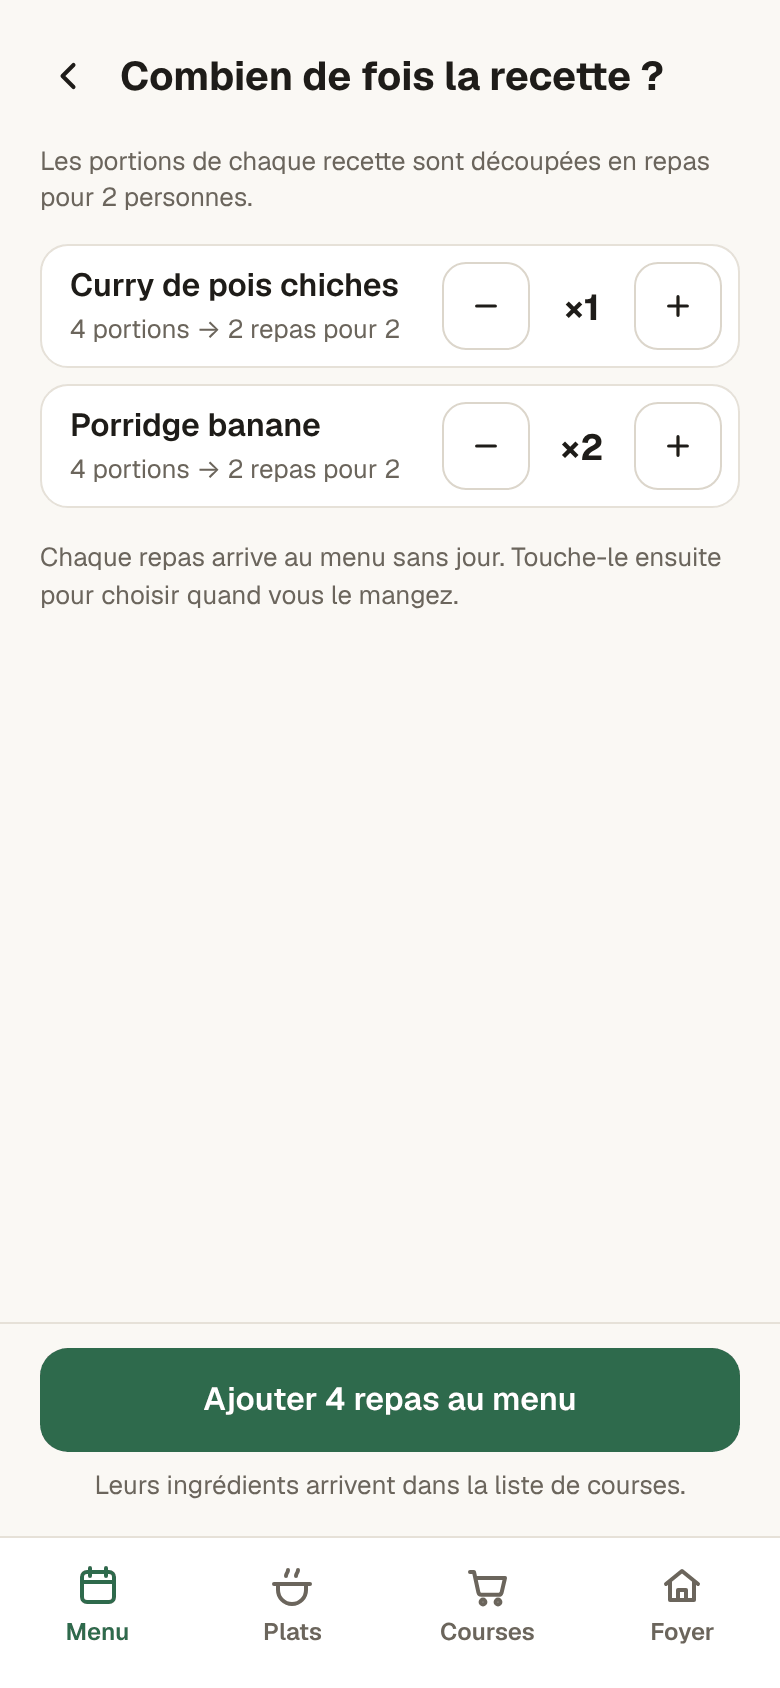
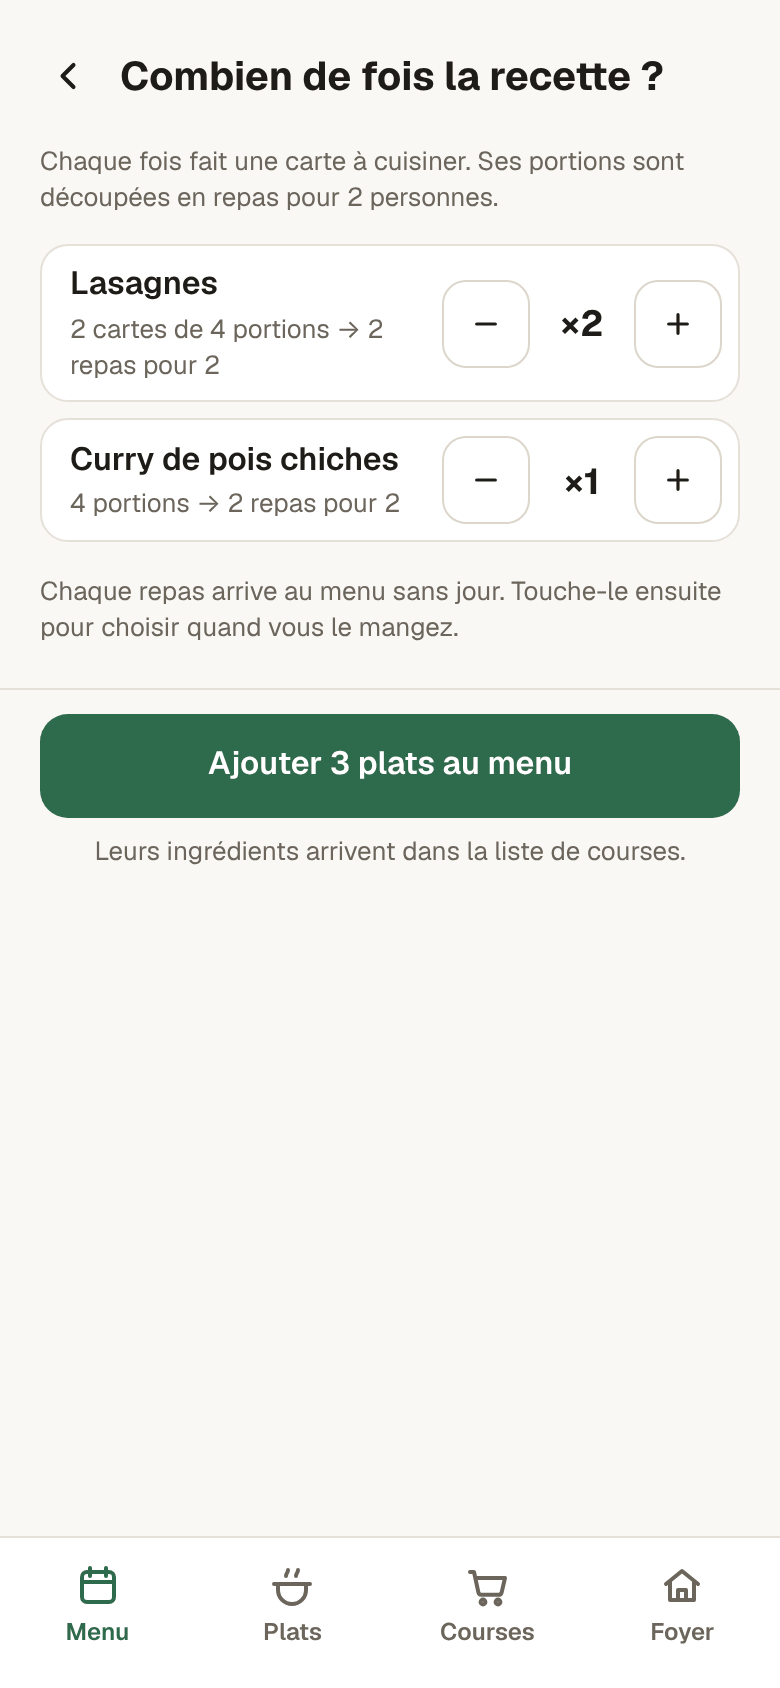
docs: show one card per dish to cook in the menu list
Claude-Session: https://claude.ai/code/session_01JKdr356e4cDrANtMrezvMz

diff --git a/docs/maquette/maquette.dc.html b/docs/maquette/maquette.dc.html
@@ -47,11 +47,11 @@ input,select,textarea{font:inherit;color:#1E1C19}
 <main style="flex: 1; overflow-y: auto; padding: 0 20px 20px; display: flex; flex-direction: column; gap: 10px">
 <sc-if value="{{isListView}}" hint-placeholder-val="{{true}}">
 <div style="display: flex; flex-direction: column; gap: 10px">
-<sc-for list="{{menuItems}}" as="item" hint-placeholder-count="5">
+<sc-for list="{{dishCards}}" as="item" hint-placeholder-count="5">
 <div style="display: flex; align-items: center; gap: 12px; background: #FFFFFF; border: 1px solid #E6E1D8; border-radius: 14px; padding: 10px 12px 10px 10px">
 <button type="button" onClick="{{item.toggle}}" aria-label="{{item.boxLabel}}" style="width: 44px; height: 44px; display: flex; align-items: center; justify-content: center; flex: none">
 <span style="width: 24px; height: 24px; border-radius: 7px; border: 2px solid {{item.boxBorder}}; background: {{item.boxBg}}; display: flex; align-items: center; justify-content: center; box-sizing: border-box">
-<sc-if value="{{item.eaten}}" hint-placeholder-val="{{false}}">
+<sc-if value="{{item.cooked}}" hint-placeholder-val="{{false}}">
 <svg width="14" height="14" viewBox="0 0 24 24" fill="none" stroke="#FFFFFF" stroke-width="3.5" stroke-linecap="round" stroke-linejoin="round" aria-hidden="true"><path d="M5 12l5 5 9-10"></path></svg>
 </sc-if>
 </span>
@@ -59,20 +59,16 @@ input,select,textarea{font:inherit;color:#1E1C19}
 <button type="button" onClick="{{item.open}}" style="flex: 1; min-width: 0; min-height: 44px; display: flex; flex-direction: column; justify-content: center; gap: 4px">
 <span style="font-size: 16px; font-weight: 600; color: {{item.nameColor}}; text-decoration: {{item.nameDeco}}">{{item.name}}</span>
 <span style="display: flex; flex-wrap: wrap; align-items: center; gap: 6px; font-size: 13px; color: #6B655C">
-<span>{{item.portions}}</span>
-<span aria-hidden="true">·</span>
-<span style="color: {{item.whenColor}}">{{item.when}}</span>
+<span>{{item.sub}}</span>
 <sc-if value="{{item.carried}}" hint-placeholder-val="{{false}}">
 <span style="background: #F6E7D6; color: #7A4210; border-radius: 6px; padding: 1px 7px; font-size: 12px; font-weight: 600">{{item.carriedLabel}}</span>
-</sc-if>
-<sc-if value="{{item.toCook}}" hint-placeholder-val="{{false}}">
-<span style="background: #ECE8E0; color: #4A453E; border-radius: 6px; padding: 1px 7px; font-size: 12px; font-weight: 600">À cuisiner</span>
 </sc-if>
 </span>
 </button>
 <svg width="18" height="18" viewBox="0 0 24 24" fill="none" stroke="#9A9387" stroke-width="2" stroke-linecap="round" stroke-linejoin="round" aria-hidden="true"><path d="M9 6l6 6-6 6"></path></svg>
 </div>
 </sc-for>
+<p style="margin: 2px 4px 0; font-size: 13px; color: #6B655C">Coche un plat quand il est cuisiné. Les repas, ce qui est mangé et quand : vue Par jour.</p>
 </div>
 </sc-if>
 <sc-if value="{{isDayView}}" hint-placeholder-val="{{false}}">
@@ -933,7 +929,8 @@ class Component extends DCLogic {
       shopDay: 5, duration: 14, pIdx: 0, prepDays: 14, prepSkip: {},
       // Un menu couvre une période qui commence le jour des courses (ici samedi), pour 1 ou 2 semaines.
       periods: [{ id: 'p1', start: '2026-10-17', days: 14 }],
-      // Une « fournée » = une recette cuisinée N fois ; ses portions sont découpées en repas.
+      // Une « fournée » = un plat ajouté au menu, cuisiné une fois ; ses portions sont découpées en repas.
+      // Ajouter un plat ×2 crée deux fournées (deux cartes, cuisinées chacune de son côté).
       // cooked = jour (dans la période) où le plat a été cuisiné ; absent = « À cuisiner ».
       batches: [
         { id: 'b1', p: 'p1', plat: 'soupe', times: 1, carried: true },
@@ -941,7 +938,8 @@ class Component extends DCLogic {
         { id: 'b3', p: 'p1', plat: 'pesto', times: 1, cooked: 4 },
         { id: 'b4', p: 'p1', plat: 'curry', times: 1 },
         { id: 'b5', p: 'p1', plat: 'lentilles', times: 1 },
-        { id: 'b6', p: 'p1', plat: 'crepes', times: 1 }
+        { id: 'b6', p: 'p1', plat: 'crepes', times: 1 },
+        { id: 'b7', p: 'p1', plat: 'lasagnes', times: 1 }
       ],
       meals: [
         { id: 1, b: 'b1', portions: 2, day: null, slot: null },
@@ -956,7 +954,9 @@ class Component extends DCLogic {
         { id: 8, b: 'b5', portions: 2, day: 13, slot: 'Midi' },
         { id: 9, b: 'b5', portions: 1, day: 11, slot: 'Midi' },
         { id: 10, b: 'b6', portions: 2, day: 7, slot: 'Goûter' },
-        { id: 11, b: 'b6', portions: 2, day: 8, slot: 'Goûter' }
+        { id: 11, b: 'b6', portions: 2, day: 8, slot: 'Goûter' },
+        { id: 13, b: 'b7', portions: 2, day: null, slot: null },
+        { id: 14, b: 'b7', portions: 2, day: null, slot: null }
       ]
     };
   }
@@ -1014,8 +1014,8 @@ class Component extends DCLogic {
     };
     const calc = (k, times) => {
       const total = P[k].servings * times, full = Math.floor(total / s.people), rem = total % s.people;
-      let t = portionsLabel(total) + ' → ' + repasLabel(full) + ' pour ' + s.people;
-      if (rem) t += ' + ' + portionsLabel(rem);
+      let t = (times > 1 ? times + ' cartes de ' : '') + portionsLabel(P[k].servings) + ' → ' + repasLabel(Math.floor(P[k].servings / s.people)) + ' pour ' + s.people;
+      if (P[k].servings % s.people) t += ' + ' + portionsLabel(P[k].servings % s.people);
       return t;
     };
 
@@ -1049,6 +1049,28 @@ class Component extends DCLogic {
       };
     });
     const eatenCount = menuItems.filter((x) => x.eaten).length;
+    // En liste : une carte par fournée ; sa case = « cuisiné ». Décocher décoche aussi « mangé » sur ses repas.
+    const viewBatches = period ? s.batches.filter((b) => b.p === period.id) : [];
+    const dishCards = viewBatches.map((bt) => {
+      const p = P[bt.plat], ms = s.meals.filter((x) => x.b === bt.id);
+      const total = ms.reduce((a, x) => a + x.portions, 0), left = ms.filter((x) => !x.eaten).reduce((a, x) => a + x.portions, 0);
+      const cooked = bt.cooked != null, done = cooked && left === 0;
+      const same = viewBatches.filter((x) => x.plat === bt.plat);
+      return {
+        name: p.name + (same.length > 1 ? ' (' + (same.indexOf(bt) + 1) + ')' : ''), cooked: cooked,
+        sub: portionsLabel(total) + ' · ' + (!cooked ? 'à cuisiner' : (done ? 'tout mangé' : (left > 1 ? left + ' restantes' : left + ' restante'))),
+        carried: !!bt.carried, carriedLabel: cooked ? 'Reste' : 'Reporté',
+        nameColor: done ? '#8A8378' : '#1E1C19', nameDeco: done ? 'line-through' : 'none',
+        boxBg: cooked ? green : '#FFFFFF', boxBorder: cooked ? green : '#A8A094',
+        boxLabel: (cooked ? 'Marquer comme pas cuisiné : ' : 'Marquer comme cuisiné : ') + p.name,
+        toggle: () => this.setState({
+          batches: this.state.batches.map((b) => b.id === bt.id ? Object.assign({}, b, { cooked: cooked ? null : todayOff(bt), cookedFrom: null }) : b),
+          meals: cooked ? this.state.meals.map((x) => x.b === bt.id ? Object.assign({}, x, { eaten: false }) : x) : this.state.meals
+        }),
+        open: go({ screen: 'plat', platId: bt.plat, platBack: 'menu' })
+      };
+    });
+    const cookedCount = dishCards.filter((x) => x.cooked).length;
     // Vue par jour : « À placer » en haut, puis chaque jour du menu (même vide), cible du glisser-déposer.
     const moveTo = (id, day) => this.setState({
       meals: this.state.meals.map((x) => x.id === id ? Object.assign({}, x, { day: day < 0 ? null : day }) : x),
@@ -1084,7 +1106,7 @@ class Component extends DCLogic {
       meal = {
         name: p.name,
         portions: portionsLabel(cm.portions) + (siblings.length > 1 ? ' · repas ' + (siblings.indexOf(cm) + 1) + ' sur ' + siblings.length : ''),
-        batch: 'Recette ×' + bt.times + ' (' + portionsLabel(p.servings * bt.times) + ')' + (bt.carried ? ', reportée du menu précédent' : ''),
+        batch: 'Recette de ' + portionsLabel(p.servings) + (bt.carried ? ', reportée du menu précédent' : ''),
         openRecipe: (e) => { if (e && e.preventDefault) e.preventDefault(); this.setState({ screen: 'plat', platId: bt.plat, platBack: 'meal' }); },
         // « Plat cuisiné » vaut pour toute la fournée ; le décocher décoche aussi « mangé » sur ses repas.
         cooked: bt.cooked != null,
@@ -1166,14 +1188,16 @@ class Component extends DCLogic {
       dec: setTimes(k, -1), inc: setTimes(k, 1),
       decLabel: 'Une fois de moins : ' + P[k].name, incLabel: 'Une fois de plus : ' + P[k].name
     }));
-    const nNewMeals = selKeys.reduce((acc, k) => acc + split(k, s.addSel[k]).length, 0);
+    const nNewMeals = selKeys.reduce((acc, k) => acc + s.addSel[k], 0);
     const confirmMulti = () => {
       const t = Date.now();
       const pid = (this.state.periods[this.state.pIdx] || this.state.periods[this.state.periods.length - 1]).id;
-      const batches = selKeys.map((k, i) => ({ id: 'n' + t + '-' + i, p: pid, plat: k, times: this.state.addSel[k] }));
+      // ×N = N fournées d'une recette, chacune cuisinée de son côté.
+      const batches = [];
+      selKeys.forEach((k, i) => { for (let n = 0; n < this.state.addSel[k]; n++) batches.push({ id: 'n' + t + '-' + i + '-' + n, p: pid, plat: k, times: 1 }); });
       let meals = [];
       batches.forEach((b, i) => {
-        split(b.plat, b.times).forEach((portions, j) => { meals.push({ id: t + i * 100 + j, b: b.id, portions: portions, day: null, slot: null }); });
+        split(b.plat, 1).forEach((portions, j) => { meals.push({ id: t + i * 100 + j, b: b.id, portions: portions, day: null, slot: null }); });
       });
       this.setState({
         batches: this.state.batches.concat(batches), meals: this.state.meals.concat(meals),
@@ -1238,7 +1262,16 @@ class Component extends DCLogic {
     });
     // Deux groupes : plats jamais cuisinés (reportés entiers) et restes d'un plat déjà cuisiné.
     const sepFix = (arr) => arr.map((l, i) => Object.assign({}, l, { sep: i === 0 ? 'transparent' : '#EFEBE3' }));
-    const prepUncooked = sepFix(prepCarry.filter((l) => !l.cooked));
+    // Un plat pas cuisiné est reporté entier : une ligne par plat, qui coche ou décoche tous ses repas.
+    const uncookedBatches = s.batches.filter((b) => b.p === last.id && b.cooked == null && carryMeals.some((m) => m.b === b.id));
+    const prepUncooked = sepFix(uncookedBatches.map((b) => {
+      const ms = carryMeals.filter((m) => m.b === b.id), on = !s.prepSkip[ms[0].id];
+      return {
+        name: P[b.plat].name, sub: portionsLabel(ms.reduce((a, m) => a + m.portions, 0)) + ' · à cuisiner', checked: on,
+        boxBg: on ? green : '#FFFFFF', boxBorder: on ? green : '#A8A094',
+        toggle: () => { const k = Object.assign({}, this.state.prepSkip); ms.forEach((m) => { k[m.id] = on; }); this.setState({ prepSkip: k }); }
+      };
+    }));
     const prepLeft = sepFix(prepCarry.filter((l) => l.cooked));
     const confirmPrep = () => {
       const st = this.state, nid = 'p' + Date.now();
@@ -1323,7 +1356,8 @@ class Component extends DCLogic {
       cancelMove: go({ moveId: null }),
       periodTitle: !period ? 'Prochain menu' : (s.pIdx === curIdx ? 'Menu en cours' : (s.pIdx > curIdx ? 'Prochain menu' : 'Menu passé')),
       periodLabel: period ? rangeLabel(period) : 'À partir du ' + shortDate(dateAt(nextStart, 0)),
-      menuSummary: period ? lengthLabel(period.days) + ' · ' + repasLabel(menuItems.length) + ', ' + eatenCount + (eatenCount > 1 ? ' mangés' : ' mangé') : '',
+      menuSummary: period ? lengthLabel(period.days) + ' · ' + dishCards.length + (dishCards.length > 1 ? ' plats, ' : ' plat, ') + cookedCount + (cookedCount > 1 ? ' cuisinés' : ' cuisiné') : '',
+      dishCards: dishCards,
       prevPeriod: go({ pIdx: Math.max(0, s.pIdx - 1) }), nextPeriod: go({ pIdx: Math.min(s.periods.length, s.pIdx + 1) }),
       prevColor: s.pIdx === 0 ? '#C9C2B6' : '#1E1C19',
       openPrep: go({ screen: 'prep', prepDays: s.duration, prepSkip: {} }),
@@ -1340,8 +1374,8 @@ class Component extends DCLogic {
       openAddPick: go({ screen: 'addPick', search: '', addSel: {}, addSelOrder: [] }),
       hasSel: nSel > 0, selItems: selItems,
       selCta: 'Continuer avec ' + nSel + (nSel > 1 ? ' plats' : ' plat'),
-      recapIntro: 'Les portions de chaque recette sont découpées en repas pour ' + s.people + (s.people > 1 ? ' personnes.' : ' personne.'),
-      recapCta: 'Ajouter ' + repasLabel(nNewMeals) + ' au menu',
+      recapIntro: 'Chaque fois fait une carte à cuisiner. Ses portions sont découpées en repas pour ' + s.people + (s.people > 1 ? ' personnes.' : ' personne.'),
+      recapCta: 'Ajouter ' + nNewMeals + (nNewMeals > 1 ? ' plats' : ' plat') + ' au menu',
       openRecap: go({ screen: 'addRecap', recapBack: 'addPick' }),
       confirmMulti: confirmMulti,
 

diff --git a/docs/maquette/README.md b/docs/maquette/README.md
@@ -21,12 +21,12 @@ Si la maquette change sur claude.ai, il faut refaire la copie et les captures da
 
 | Capture | Écran | Tickets |
 |---|---|---|
-| [01-menu-liste](ecrans/01-menu-liste.png) | Accueil : menu en cours, vue « En liste » (période, repas, case « mangé », badges « À cuisiner », « Reporté » et « Reste ») | #28, #30 |
-| [02-menu-par-jour](ecrans/02-menu-par-jour.png) | Accueil, vue « Par jour » : « À placer » puis tous les jours du menu | #29 |
+| [01-menu-liste](ecrans/01-menu-liste.png) | Accueil : menu en cours, vue « En liste » : une carte par plat ajouté, case « cuisiné », portions restantes, badges « Reporté » et « Reste » | #28, #30 |
+| [02-menu-par-jour](ecrans/02-menu-par-jour.png) | Accueil, vue « Par jour » : les repas, case « mangé », badge « À cuisiner », « À placer » puis tous les jours du menu | #29 |
 | [03-menu-deplacer-repas](ecrans/03-menu-deplacer-repas.png) | Vue « Par jour » après la poignée ⋮⋮ : boutons « Placer ici » | #29 |
 | [04-preparer-menu-suivant](ecrans/04-preparer-menu-suivant.png) | Préparer le menu suivant : durée, repas à reporter en deux groupes (« Pas cuisinés », « Restes ») | #30 |
 | [05-ajouter-choisir-plats](ecrans/05-ajouter-choisir-plats.png) | Ajouter au menu, étape 1 : choisir plusieurs plats | #28 |
-| [06-ajouter-recap](ecrans/06-ajouter-recap.png) | Ajouter au menu, étape 2 : × N par recette et découpe en repas | #28 |
+| [06-ajouter-recap](ecrans/06-ajouter-recap.png) | Ajouter au menu, étape 2 : × N par recette (N cartes à cuisiner) et découpe en repas | #28 |
 | [07-repas](ecrans/07-repas.png) | Fiche repas : « Plat cuisiné », « Séparer ce repas », jour et moment facultatifs, retirer le repas | #29 |
 | [08-plats](ecrans/08-plats.png) | Onglet Plats : liste, recherche, badge « Au menu » | #25 |
 | [09-fiche-plat](ecrans/09-fiche-plat.png) | Fiche du plat : portions, ingrédients, recette, macros | #25 (bouton « Ajouter au menu » : #28) |
